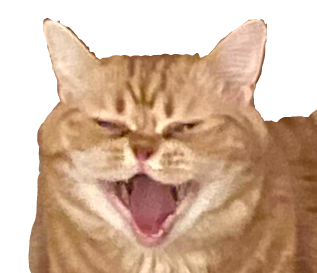
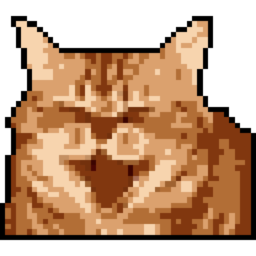
좀 더 픽셀화

diff --git a/routine/src/app/page.tsx b/routine/src/app/page.tsx
@@ -1,51 +1,60 @@
 import Link from 'next/link';
-import Image from "next/image";
+import Image from 'next/image';
 
 export default function Home() {
     return (
         <div className="font-dung flex flex-col items-center justify-center min-h-screen bg-black text-white">
             <div className="text-2xl mb-20">루틴 선택</div>
-            <div className="grid grid-cols-2 gap-4 md:grid-cols-4">
+            <div className="grid grid-cols-2 gap-6 md:grid-cols-4">
                 <Link href="/type-a">
-                    <div className="p-5 text-center border rounded-lg h-48 flex flex-col items-center justify-center">
-                        <div className="flex items-center justify-center w-24 h-24">
-                            <Image src="/type-a.png" alt="type-a" width="100" height="100" className="max-w-full max-h-full" />
+                    <div className="relative">
+                        <div className="absolute top-1.5 left-1.5 w-full h-full bg-white"></div>
+                        <div className="relative p-5 bg-black text-white text-center border-2 h-48 flex flex-col items-center justify-center">
+                            <div className="flex items-center justify-center w-24 h-24">
+                                <Image src="/type-a.png" alt="type-a" width="100" height="100" className="max-w-full max-h-full" />
+                            </div>
+                            <div className="text-xl mt-2">억만장자</div>
+                            <div className="text-xs border-[1px] rounded-full mt-1 px-2">난이도 상</div>
                         </div>
-                        <div className="text-xl mt-2">억만장자</div>
-                        <div className="text-xs border-[1px] rounded-full mt-1 px-2">난이도 상</div>
                     </div>
                 </Link>
                 <Link href="/type-b">
-                    <div className="p-5 text-center border rounded-lg h-48 flex flex-col items-center justify-center">
-                        <div className="flex items-center justify-center w-24 h-24">
-                            <Image src="/type-b.png" alt="type-b" width="100" height="100" className="max-w-full max-h-full" />
+                    <div className="relative">
+                        <div className="absolute top-1.5 left-1.5 w-full h-full bg-white"></div>
+                        <div className="relative p-5 bg-black text-white text-center border-2 h-48 flex flex-col items-center justify-center">
+                            <div className="flex items-center justify-center w-24 h-24">
+                                <Image src="/type-b.png" alt="type-b" width="100" height="100" className="max-w-full max-h-full" />
+                            </div>
+                            <div className="text-xl mt-2">캐시</div>
+                            <div className="text-xs border-[1px] rounded-full mt-1 px-2">유포리아</div>
                         </div>
-                        <div className="text-xl mt-2">캐시</div>
-                        <div className="text-xs border-[1px] rounded-full mt-1 px-2">난이도 중</div>
                     </div>
                 </Link>
                 <Link href="/type-c">
-                    <div className="p-5 text-center border rounded-lg h-48 flex flex-col items-center justify-center">
-                        <div className="flex items-center justify-center w-24 h-24">
-                            <Image src="/type-c.png" alt="type-c" width="100" height="100" className="max-w-full max-h-full" />
+                    <div className="relative">
+                        <div className="absolute top-1.5 left-1.5 w-full h-full bg-white"></div>
+                        <div className="relative p-5 bg-black text-white text-center border-2 h-48 flex flex-col items-center justify-center">
+                            <div className="flex items-center justify-center w-24 h-24">
+                                <Image src="/type-c.png" alt="type-c" width="100" height="100" className="max-w-full max-h-full" />
+                            </div>
+                            <div className="text-xl mt-2">허버먼</div>
+                            <div className="text-xs border-[1px] rounded-full mt-1 px-2">신경과학자</div>
                         </div>
-                        <div className="text-xl mt-2">허버먼</div>
-                        <div className="text-xs border-[1px] rounded-full mt-1 px-2">난이도 하</div>
                     </div>
                 </Link>
                 <Link href="/type-d">
-                    <div className="p-5 text-center border rounded-lg h-48 flex flex-col items-center justify-center">
-                        <div className="flex items-center justify-center w-24 h-24">
-                            <Image src="/type-d.png" alt="type-d" width="100" height="100" className="max-w-full max-h-full" />
+                    <div className="relative">
+                        <div className="absolute top-1.5 left-1.5 w-full h-full bg-white"></div>
+                        <div className="relative p-5 bg-black text-white text-center border-2 h-48 flex flex-col items-center justify-center">
+                            <div className="flex items-center justify-center w-24 h-24">
+                                <Image src="/type-d.png" alt="type-d" width="100" height="100" className="max-w-full max-h-full" />
+                            </div>
+                            <div className="text-xl mt-2">백만원장자</div>
+                            <div className="text-xs border-[1px] rounded-full mt-1 px-2">난이도 최하</div>
                         </div>
-                        <div className="text-xl mt-2">백만원장자</div>
-                    <div className="text-xs border-[1px] rounded-full">난이도 최하</div>
-                </div>
-            </Link>
+                    </div>
+                </Link>
             </div>
         </div>
     );
 }
-
-
-

diff --git a/routine/src/app/type-a/page.tsx b/routine/src/app/type-a/page.tsx
@@ -5,16 +5,16 @@ import Link from 'next/link';
 import Image from "next/image";
 
 const phases = [
-    { id: 1, action: '꿈 기억하기', desc: '꿈을 기억하세요', color: 'white', imageUrl: '/sitting.jpg' },
-    { id: 2, action: '이불 정리하기', desc: '이불 정리', color: 'white', imageUrl: '/images/sitting.jpg' },
-    { id: 3, action: '물 한잔과 영양제 먹기', desc: '물먹기', color: 'white', imageUrl: '/images/sitting.jpg' },
-    { id: 4, action: '10분간 명상', desc: '명상하세용', color: 'white', imageUrl: '/images/sitting.jpg' },
-    { id: 5, action: '2분간 격렬한 운동', desc: '운동이욧', color: 'white', imageUrl: '/images/sitting.jpg' },
-    { id: 6, action: '찬물샤워', desc: '샤워하세용', color: 'white', imageUrl: '/images/sitting.jpg' },
-    { id: 7, action: '따뜻한 차 마시기', desc: '차마시세용', color: 'white', imageUrl: '/images/sitting.jpg' },
-    { id: 8, action: '일기쓰기 / 계획짜기', desc: '일기쓰세용', color: 'white', imageUrl: '/images/sitting.jpg' },
-    { id: 9, action: '20분간 독서', desc: '독서하세용', color: 'white', imageUrl: '/images/sitting.jpg' },
-    { id: 10, action: '스무디 만들기', desc: '스무디 만들기', color: 'white', imageUrl: '/images/sitting.jpg' },
+    { id: 1, action: '꿈 기억하기', desc: '꿈을 기록하거나 기억하는 습관은 자기 이해와 창의성을 증진시킬 수 있습니다.', color: 'white'},
+    { id: 2, action: '이불 정리하기', desc: '이불 정리하기는 작은 성취감을 제공하며 하루를 시작하는 좋은 습관으로 알려져 있습니다. 예를 들어, 네이비 씰 퇴역 장군인 윌리엄 H. 맥레이븐(William H. McRaven)은 이불 정리를 하루의 첫 번째 임무로 강조합니다.', color: 'white'},
+    { id: 3, action: '물 한잔과 영양제 먹기', desc: '많은 건강 전문가들이 추천하는 습관입니다. 아침에 물을 마시는 것은 신체를 깨우고 수분을 공급하는 데 좋습니다.', color: 'white' },
+    { id: 4, action: '10분간 명상', desc: '명상은 마음을 차분하게 하고 집중력을 높이는 데 도움을 줍니다. 오프라 윈프리와 스티브 잡스와 같은 많은 사람들이 명상 습관을 가지고 있습니다.', color: 'white'},
+    { id: 5, action: '2분간 격렬한 운동', desc: '짧은 시간 동안 고강도의 운동을 하는 것은 신진대사를 활성화하고 에너지를 높이는 데 효과적입니다.', color: 'white'},
+    { id: 6, action: '찬물샤워', desc: '찬물샤워는 혈액 순환을 촉진하고, 정신을 맑게 하는 데 도움이 됩니다.', color: 'white' },
+    { id: 7, action: '따뜻한 차 마시기', desc: '따뜻한 차를 마시는 것은 몸을 편안하게 하고 정신을 맑게 하는 데 도움을 줄 수 있습니다.', color: 'white'},
+    { id: 8, action: '일기쓰기 / 계획짜기', desc: '일기 쓰기와 계획 짜기는 하루를 더 잘 관리하고, 목표를 설정하는 데 중요합니다. 벤자민 프랭클린은 하루 계획을 세우는 습관이 있었습니다.', color: 'white' },
+    { id: 9, action: '20분간 독서', desc: '독서는 지식을 넓히고 새로운 아이디어를 얻는 데 도움을 줍니다. 빌 게이츠는 정기적으로 독서를 통해 많은 지식을 습득합니다.', color: 'white' },
+    { id: 10, action: '스무디 만들기', desc: '영양가 있는 아침 식사를 준비하는 것은 하루를 건강하게 시작하는 좋은 방법입니다.', color: 'white' },
 ];
 
 export default function TypeA() {
@@ -67,14 +67,14 @@ export default function TypeA() {
                             <div className="text-2xl">{phases[currentPhaseIndex].action}</div>
                             <div className="text-xl">{`${currentPhaseIndex + 1} / ${phases.length}`}</div>
                         </div>
-                        <div className="mt-2 text-sm">{phases[currentPhaseIndex].desc}</div>
-                        <Image
-                            src={phases[currentPhaseIndex].imageUrl}
-                            alt={phases[currentPhaseIndex].action}
-                            width="100"
-                            height="100"
-                            className="mt-2 max-w-full max-h-full"
-                        />
+                        <div className="mt-2 text-base">{phases[currentPhaseIndex].desc}</div>
+                        {/*<Image*/}
+                        {/*    src={phases[currentPhaseIndex].imageUrl}*/}
+                        {/*    alt={phases[currentPhaseIndex].action}*/}
+                        {/*    width="100"*/}
+                        {/*    height="100"*/}
+                        {/*    className="mt-2 max-w-full max-h-full"*/}
+                        {/*/>*/}
                     </div>
                     <div className="flex w-full justify-center mt-4">
                         <button

diff --git a/routine/src/app/type-c/page.tsx b/routine/src/app/type-c/page.tsx
@@ -1,39 +1,40 @@
 import Link from 'next/link';
+import '../globals.css';
 
 export default function TypeC() {
     return (
-        <div className="font-dung p-8 bg-black text-white min-h-screen flex flex-col">
-            <div className="flex mb-4">
+        <div className="font-dung background-pattern p-8 bg-black text-white min-h-screen flex flex-col">
+            <div className="flex z-10 mb-4">
                 <Link href="/" passHref>
                     <div className="bg-white text-black px-4 py-2">
                         루틴 선택
                     </div>
                 </Link>
             </div>
-            <h1 className="mt-4 text-3xl">허버먼 카테고리</h1>
-            <div className="md:grid gap-4 md:grid-cols-5 mt-4">
+            <h1 className="mt-4 z-10 text-3xl">허버먼 카테고리</h1>
+            <div className=" z-10 bg-black md:grid gap-4 md:grid-cols-5 mt-4">
                 <Link href="/type-c/category-1">
-                    <div className="p-5 text-center border rounded-lg flex flex-col items-center justify-center mb-4 h-18 md:h-48">
+                    <div className="p-5 text-center border-2 flex flex-col items-center justify-center mb-4 h-18 md:h-48">
                         <div className="text-xl">아침 루틴</div>
                     </div>
                 </Link>
                 <Link href="/type-c/category-2">
-                    <div className="p-5 text-center border rounded-lg flex flex-col items-center justify-center mb-4 h-18 md:h-48">
+                    <div className="p-5 text-center border-2 flex flex-col items-center justify-center mb-4 h-18 md:h-48">
                         <div className="text-xl">오전 루틴</div>
                     </div>
                 </Link>
                 <Link href="/type-c/category-3">
-                    <div className="p-5 text-center border rounded-lg flex flex-col items-center justify-center mb-4 h-18 md:h-48">
+                    <div className="p-5 text-center border-2 flex flex-col items-center justify-center mb-4 h-18 md:h-48">
                         <div className="text-xl">오후 루틴</div>
                     </div>
                 </Link>
                 <Link href="/type-c/category-4">
-                    <div className="p-5 text-center border rounded-lg flex flex-col items-center justify-center mb-4 h-18 md:h-48">
+                    <div className="p-5 text-center border-2 flex flex-col items-center justify-center mb-4 h-18 md:h-48">
                         <div className="text-xl">저녁 루틴</div>
                     </div>
                 </Link>
                 <Link href="/type-c/category-5">
-                    <div className="p-5 text-center border rounded-lg flex flex-col items-center justify-center mb-4 h-18 md:h-48">
+                    <div className="p-5 text-center border-2 flex flex-col items-center justify-center h-18 md:h-48">
                         <div className="text-xl">밤 루틴</div>
                     </div>
                 </Link>

diff --git a/routine/src/app/type-c/category-1/page.tsx b/routine/src/app/type-c/category-1/page.tsx
@@ -40,7 +40,7 @@ export default function Page() {
             <div className="flex mb-4">
                 <Link href="/type-c" passHref>
                     <div className="bg-white text-black px-4 py-2">
-                        이전 페이지
+                        이전
                     </div>
                 </Link>
             </div>
@@ -62,7 +62,7 @@ export default function Page() {
                             <div className="text-2xl">{phases[currentPhaseIndex].action}</div>
                             <div className="text-xl">{`${currentPhaseIndex + 1} / ${phases.length}`}</div>
                         </div>
-                        <div className="mt-2 text-sm">{phases[currentPhaseIndex].desc}</div>
+                        <div className="mt-2 text-base">{phases[currentPhaseIndex].desc}</div>
                         {/*<Image*/}
                         {/*    src={phases[currentPhaseIndex].imageUrl}*/}
                         {/*    alt={phases[currentPhaseIndex].action}*/}

diff --git a/routine/src/app/type-c/category-2/page.tsx b/routine/src/app/type-c/category-2/page.tsx
@@ -37,7 +37,7 @@ export default function Page() {
             <div className="flex mb-4">
                 <Link href="/type-c" passHref>
                     <div className="bg-white text-black px-4 py-2">
-                        이전 페이지
+                        이전
                     </div>
                 </Link>
             </div>
@@ -59,7 +59,7 @@ export default function Page() {
                             <div className="text-2xl">{phases[currentPhaseIndex].action}</div>
                             <div className="text-xl">{`${currentPhaseIndex + 1} / ${phases.length}`}</div>
                         </div>
-                        <div className="mt-2 text-sm">{phases[currentPhaseIndex].desc}</div>
+                        <div className="mt-2 text-base">{phases[currentPhaseIndex].desc}</div>
                         {/*<Image*/}
                         {/*    src={phases[currentPhaseIndex].imageUrl}*/}
                         {/*    alt={phases[currentPhaseIndex].action}*/}

diff --git a/routine/src/app/type-c/category-3/page.tsx b/routine/src/app/type-c/category-3/page.tsx
@@ -38,7 +38,7 @@ export default function Page() {
             <div className="flex mb-4">
                 <Link href="/type-c" passHref>
                     <div className="bg-white text-black px-4 py-2">
-                        이전 페이지
+                        이전
                     </div>
                 </Link>
             </div>
@@ -60,7 +60,7 @@ export default function Page() {
                             <div className="text-2xl">{phases[currentPhaseIndex].action}</div>
                             <div className="text-xl">{`${currentPhaseIndex + 1} / ${phases.length}`}</div>
                         </div>
-                        <div className="mt-2 text-sm">{phases[currentPhaseIndex].desc}</div>
+                        <div className="mt-2 text-base">{phases[currentPhaseIndex].desc}</div>
                         {/*<Image*/}
                         {/*    src={phases[currentPhaseIndex].imageUrl}*/}
                         {/*    alt={phases[currentPhaseIndex].action}*/}

diff --git a/routine/src/app/type-c/category-4/page.tsx b/routine/src/app/type-c/category-4/page.tsx
@@ -40,7 +40,7 @@ export default function Page() {
             <div className="flex mb-4">
                 <Link href="/type-c" passHref>
                     <div className="bg-white text-black px-4 py-2">
-                        이전 페이지
+                        이전
                     </div>
                 </Link>
             </div>
@@ -62,7 +62,7 @@ export default function Page() {
                             <div className="text-2xl">{phases[currentPhaseIndex].action}</div>
                             <div className="text-xl">{`${currentPhaseIndex + 1} / ${phases.length}`}</div>
                         </div>
-                        <div className="mt-2 text-sm">{phases[currentPhaseIndex].desc}</div>
+                        <div className="mt-2 text-base">{phases[currentPhaseIndex].desc}</div>
                         {/*<Image*/}
                         {/*    src={phases[currentPhaseIndex].imageUrl}*/}
                         {/*    alt={phases[currentPhaseIndex].action}*/}

diff --git a/routine/src/app/type-c/category-5/page.tsx b/routine/src/app/type-c/category-5/page.tsx
@@ -36,7 +36,7 @@ export default function Page() {
             <div className="flex mb-4">
                 <Link href="/type-c" passHref>
                     <div className="bg-white text-black px-4 py-2">
-                        이전 페이지
+                        이전
                     </div>
                 </Link>
             </div>
@@ -58,7 +58,7 @@ export default function Page() {
                             <div className="text-2xl">{phases[currentPhaseIndex].action}</div>
                             <div className="text-xl">{`${currentPhaseIndex + 1} / ${phases.length}`}</div>
                         </div>
-                        <div className="mt-2 text-sm">{phases[currentPhaseIndex].desc}</div>
+                        <div className="mt-2 text-base">{phases[currentPhaseIndex].desc}</div>
                         {/*<Image*/}
                         {/*    src={phases[currentPhaseIndex].imageUrl}*/}
                         {/*    alt={phases[currentPhaseIndex].action}*/}

diff --git a/routine/src/app/globals.css b/routine/src/app/globals.css
@@ -34,3 +34,23 @@ body {
     text-wrap: balance;
   }
 }
+
+.background-pattern {
+  position: relative;
+  background-color: rgb(0, 0, 0); /* Ensure same background color as bg-black */
+  overflow: hidden;
+}
+
+
+.background-pattern::before {
+  content: "";
+  position: absolute;
+  top: 0;
+  left: 0;
+  width: 100%;
+  height: 100%;
+  background-image: radial-gradient(circle, #FFFFFF 4px, transparent 4px);
+  background-size: 20px 20px;
+  z-index: 0;
+  opacity: 0.5; /* Adjust opacity for a more subtle effect */
+}

diff --git a/routine/tailwind.config.ts b/routine/tailwind.config.ts
@@ -8,6 +8,10 @@ const config: Config = {
   ],
   theme: {
     extend: {
+      boxShadow: {
+        'custom': '0 4px 6px rgba(255, 255, 255, 0.1)', // 흰색 그림자
+        'custom-hover': '0 6px 12px rgba(255, 255, 255, 0.3)', // 호버 시 더 강한 흰색 그림자
+      },
       backgroundImage: {
         "gradient-radial": "radial-gradient(var(--tw-gradient-stops))",
         "gradient-conic":
